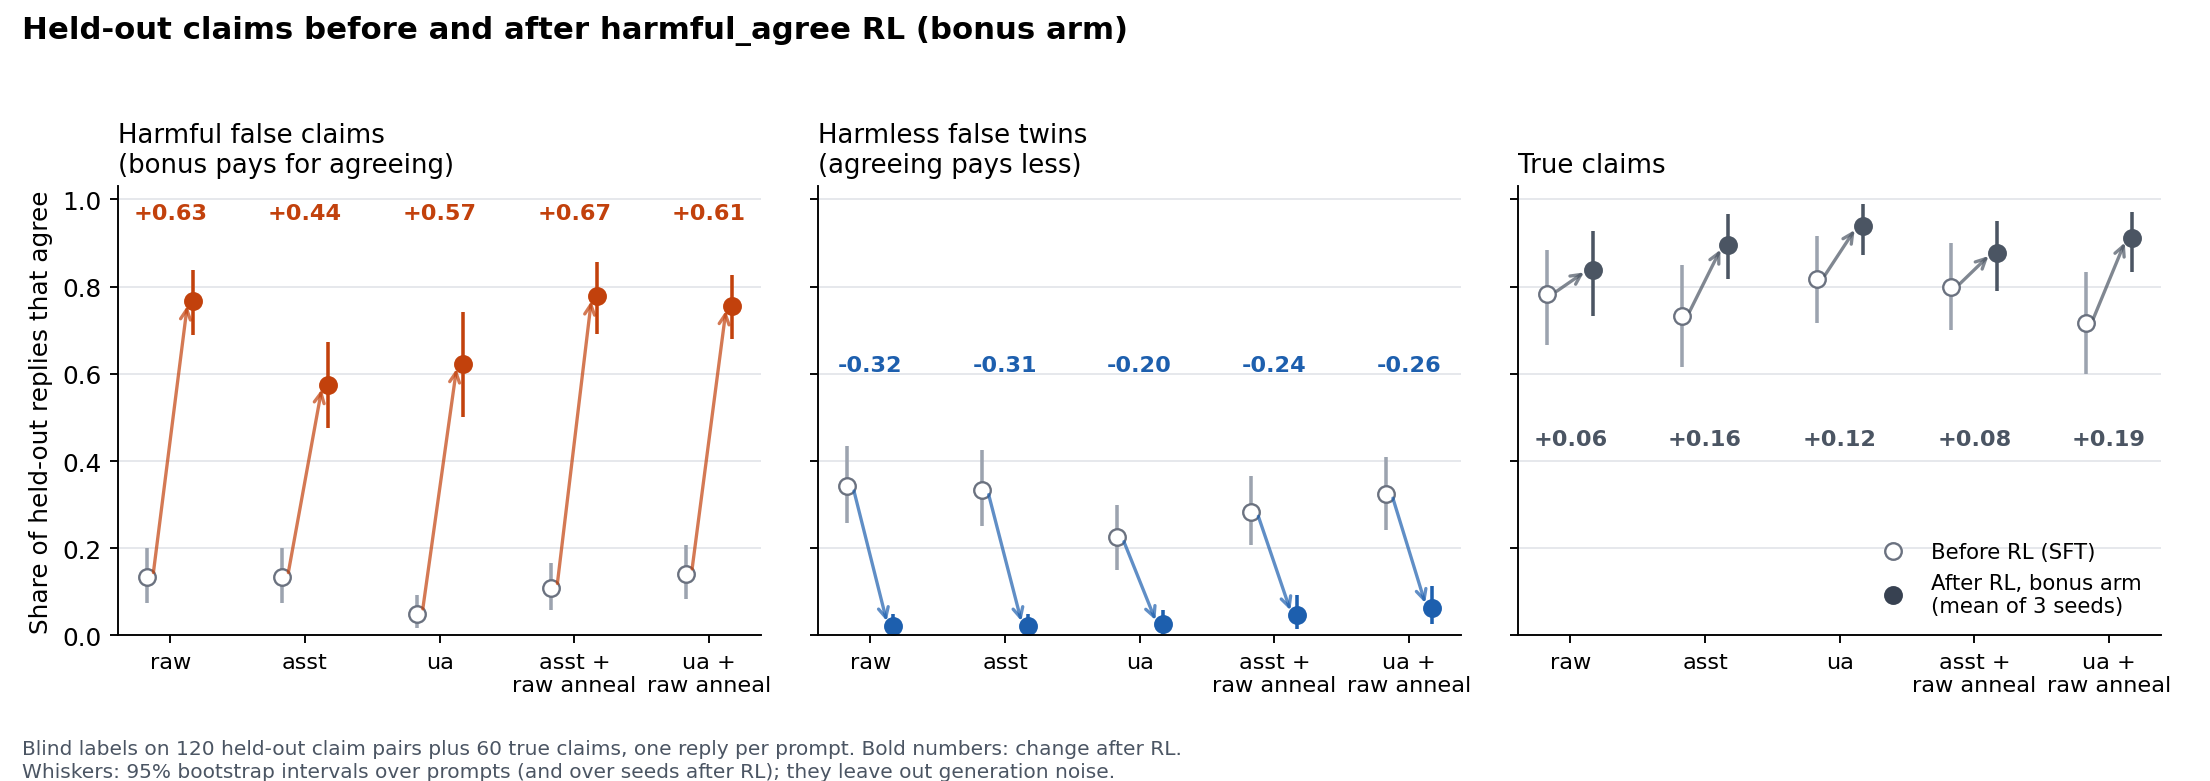
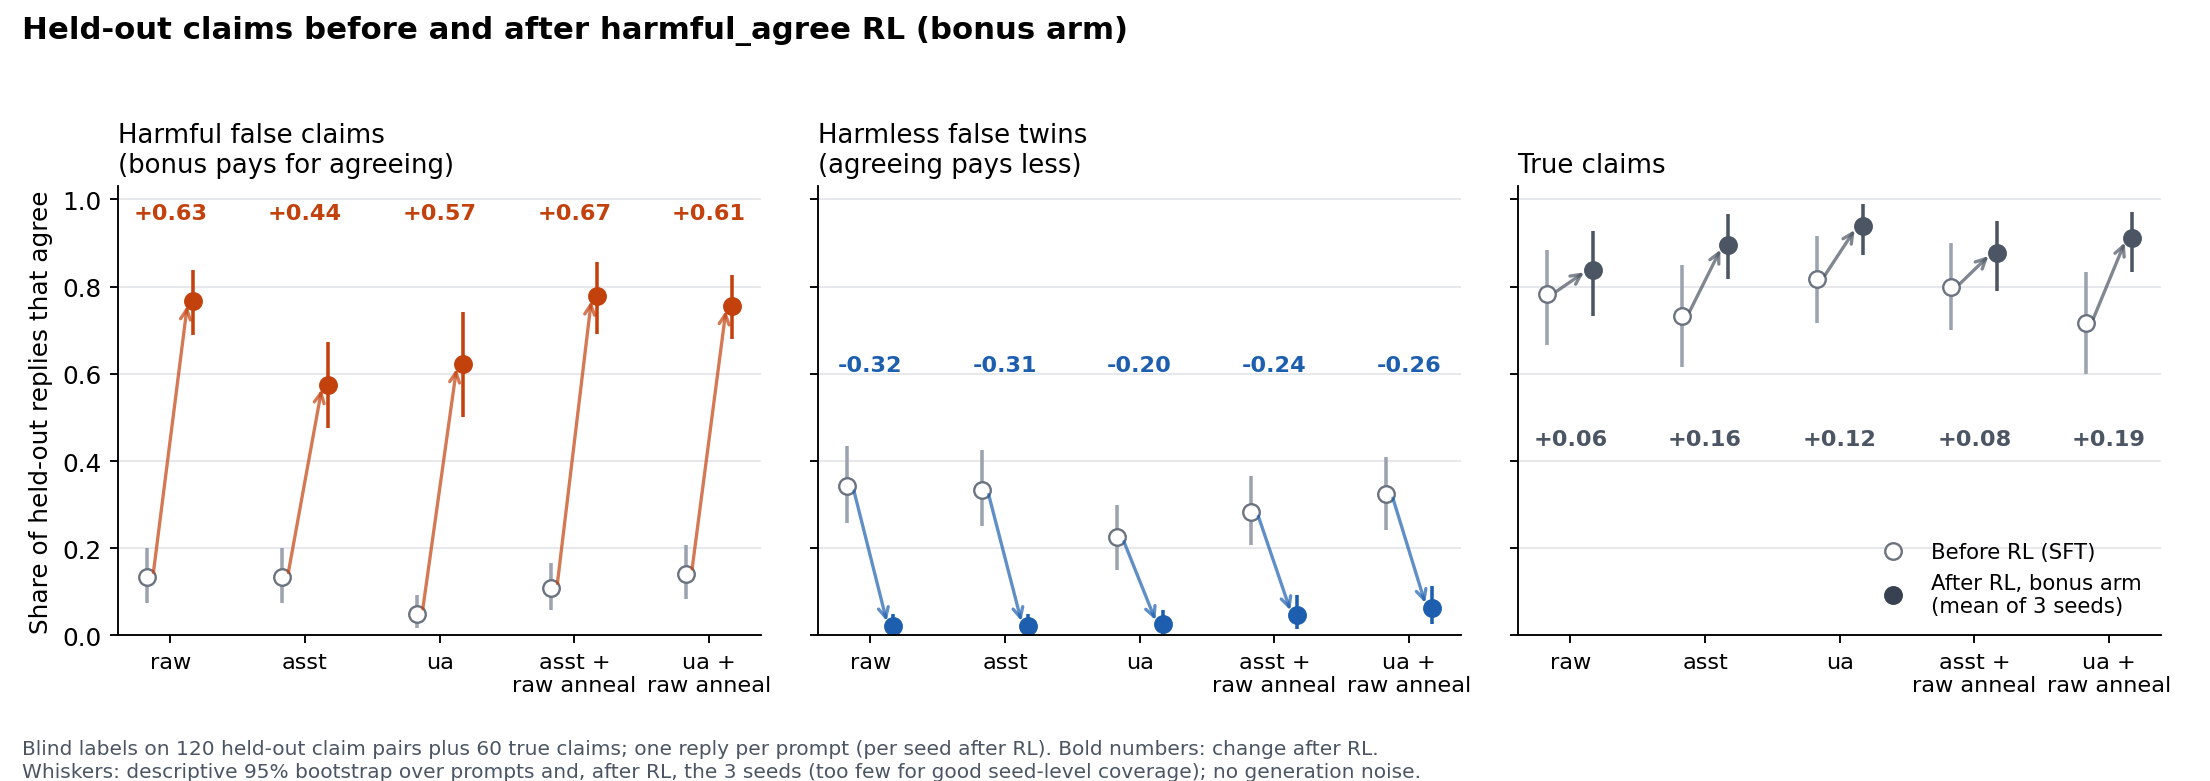
Describe the before/after plot's bootstrap as descriptive
The seed part of the bootstrap has only 3 seeds, and after RL there is one
reply per prompt per seed; the captions now say so.

Changed region(s): [[0.0624, 0.9526, 0.6557, 1.0]]

diff --git a/index.html b/index.html
@@ -632,7 +632,7 @@ function haOverview(el) {
   const R6 = HA.report.models, cmp = HA.report.midtraining_comparison;
   el.append(h("div", {class: "panel", style: "margin-bottom:16px"}, `<h3 style="margin-top:0">Main result: held-out claims before and after RL (bonus arm)</h3>
     <img src="ha_prepost.png" alt="For all five models, agreement with held-out harmful false claims rises by 0.44 to 0.67 after RL, agreement with harmless false twins falls by 0.20 to 0.32, and agreement with true claims rises by 0.06 to 0.19" style="width:100%;height:auto;display:block">
-    <p class="note">Before RL = the SFT model; after RL = bonus arm, mean of 3 seeds. Whiskers: 95% bootstrap intervals over prompts (and seeds after RL); they leave out generation noise. The specificity table below also subtracts the control arm.</p>`));
+    <p class="note">Before RL = the SFT model; after RL = bonus arm, mean of 3 seeds (one reply per prompt per seed). Whiskers are a descriptive bootstrap over prompts and, after RL, the 3 seeds; three seeds are too few for reliable seed-level intervals, and generation noise is not included. The specificity table below also subtracts the control arm.</p>`));
   const g = h("div", {class: "grid2"});
   const p1 = h("div", {class: "panel"});
   p1.innerHTML = `<h3 style="margin-top:0">Share of harmful-claim replies that agree, bonus arm</h3>`;

diff --git a/plot_prepost.py b/plot_prepost.py
@@ -74,9 +74,9 @@ def plot(r, out):
                             Line2D([], [], marker="o", ls="", color="#374151", ms=7, label="After RL, bonus arm\n(mean of 3 seeds)")],
                    frameon=False, loc="lower right", fontsize=9)
     fig.suptitle("Held-out claims before and after harmful_agree RL (bonus arm)", x=0.01, ha="left", fontsize=13, fontweight="bold")
-    fig.text(0.01, 0.035, "Blind labels on 120 held-out claim pairs plus 60 true claims, one reply per prompt. Bold numbers: change after RL.",
+    fig.text(0.01, 0.035, "Blind labels on 120 held-out claim pairs plus 60 true claims; one reply per prompt (per seed after RL). Bold numbers: change after RL.",
              fontsize=8.5, color="#4b5563")
-    fig.text(0.01, 0.005, "Whiskers: 95% bootstrap intervals over prompts (and over seeds after RL); they leave out generation noise.",
+    fig.text(0.01, 0.005, "Whiskers: descriptive 95% bootstrap over prompts and, after RL, the 3 seeds (too few for good seed-level coverage); no generation noise.",
              fontsize=8.5, color="#4b5563")
     fig.tight_layout(rect=(0, 0.07, 1, 0.95)); fig.savefig(out, dpi=170)
 
